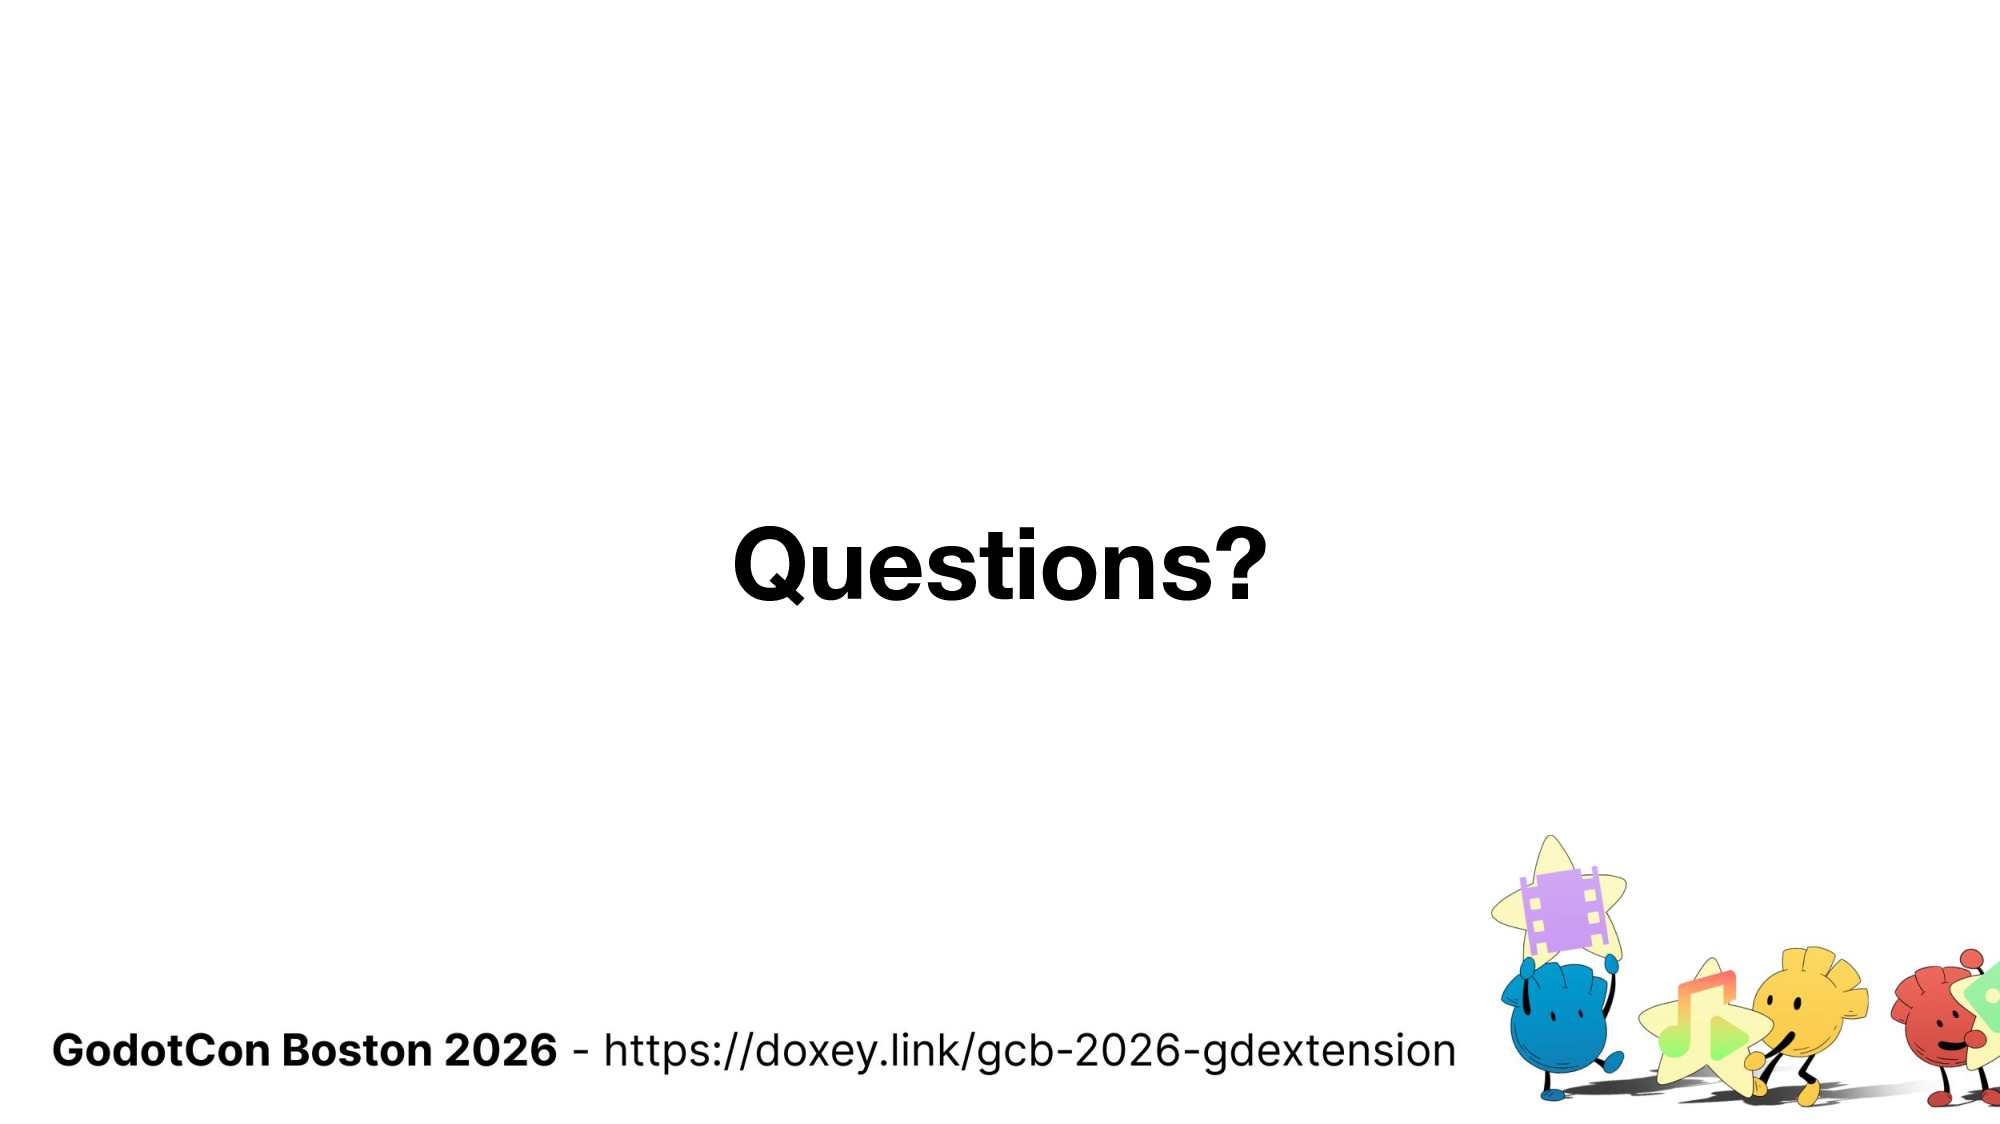
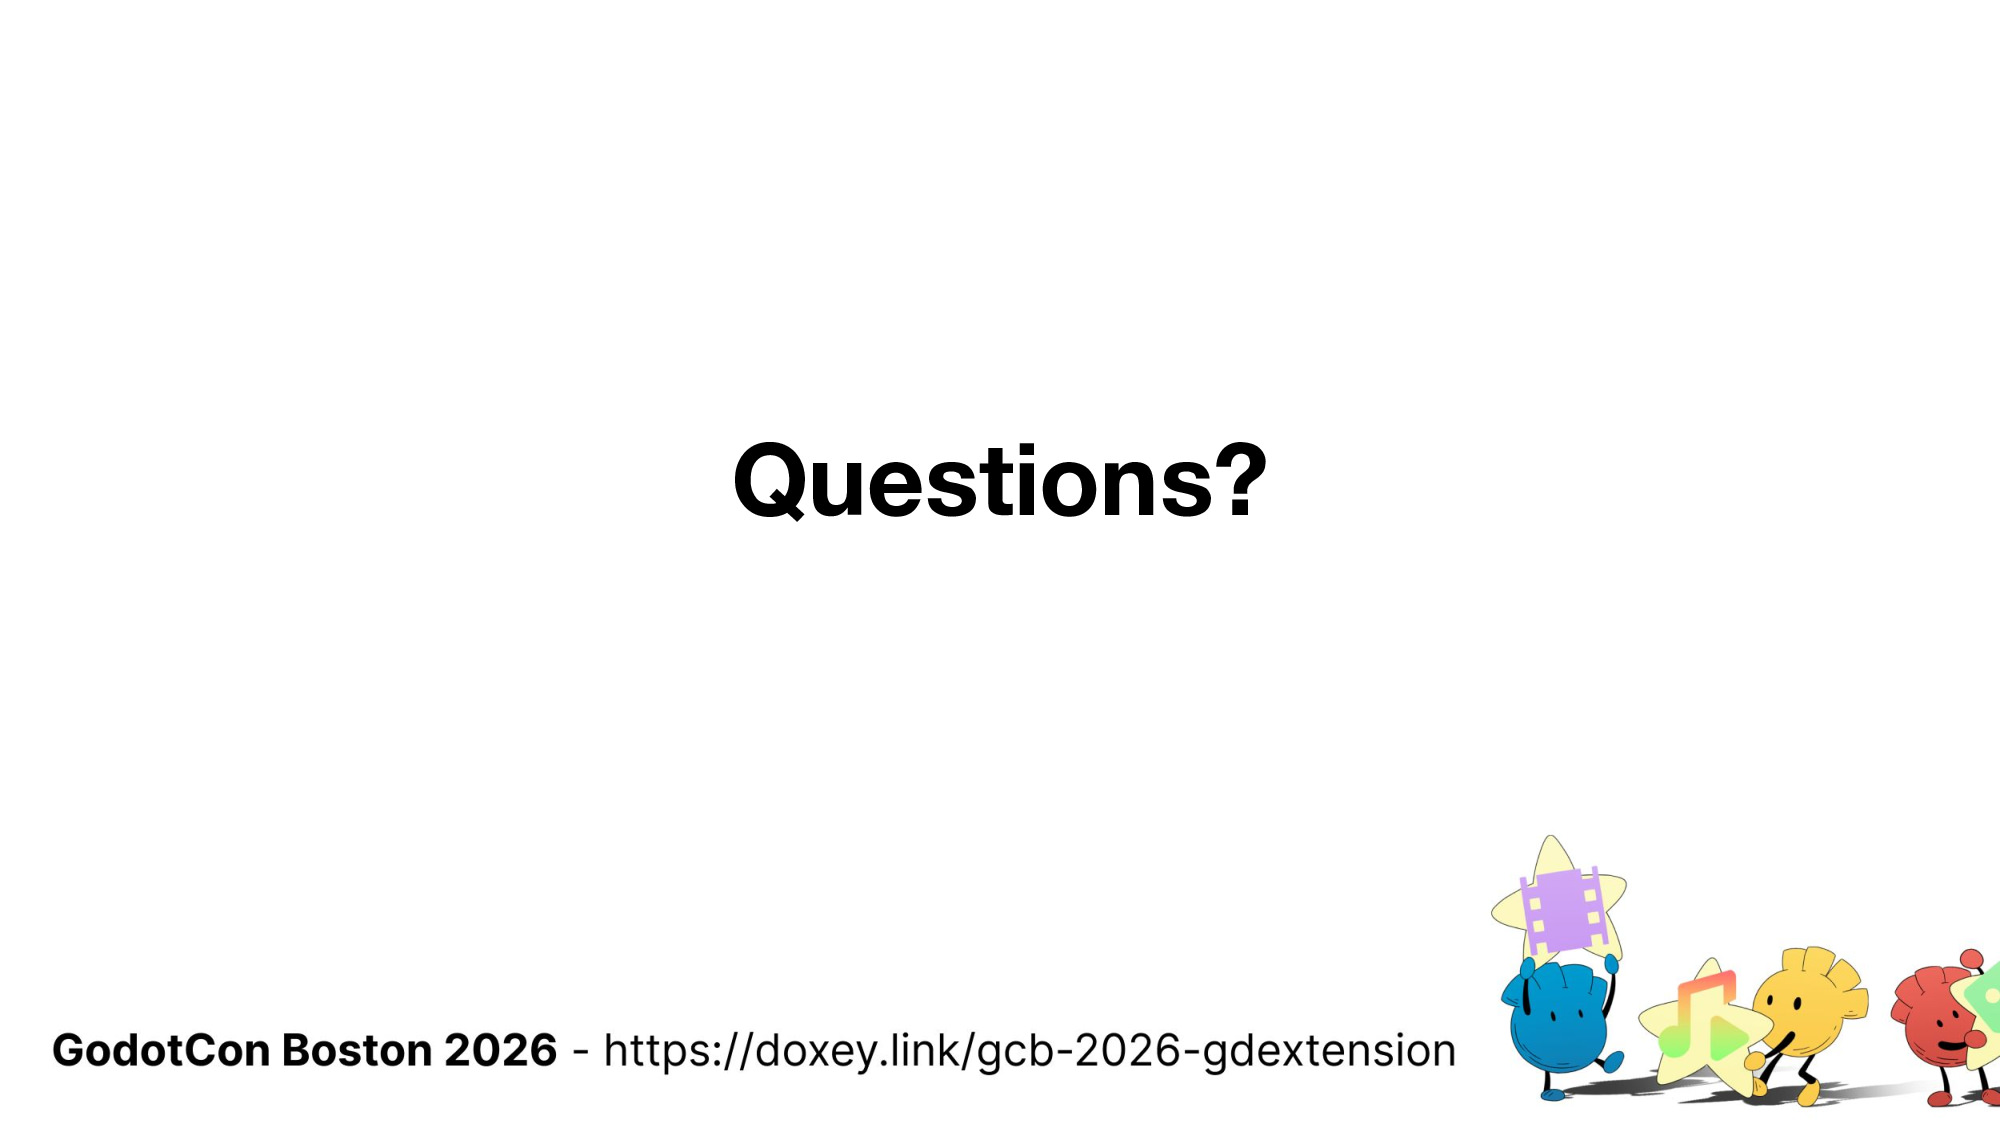
Updated min Godot version for gdextension.

Changed region(s): [[0.341, 0.3737, 0.651, 0.5605]]

diff --git a/talks/building-a-godot-plugin-with-gdextension-2026.md b/talks/building-a-godot-plugin-with-gdextension-2026.md
@@ -188,10 +188,10 @@ renderer/rendering_method.mobile="gl_compatibility"
    ```
 
 1. Go into the `godot-cpp/` directory.
-1. Checkout the Godot `4.3` release with:
+1. Checkout the Godot `4.4` release with:
 
    ```bash
-   git checkout godot-4.3-stable
+   git checkout godot-4.4-stable
    ```
 
 1. Commit changes.
@@ -255,7 +255,7 @@ renderer/rendering_method.mobile="gl_compatibility"
    [configuration]
 
    entry_symbol = "godot_cpp_plugin_entry"
-   compatibility_minimum = 4.3
+   compatibility_minimum = 4.4
    reloadable = true
 
    [libraries]